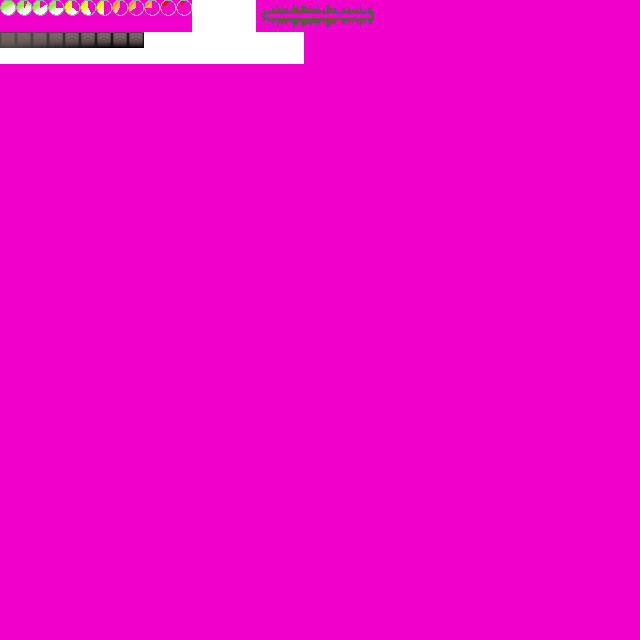
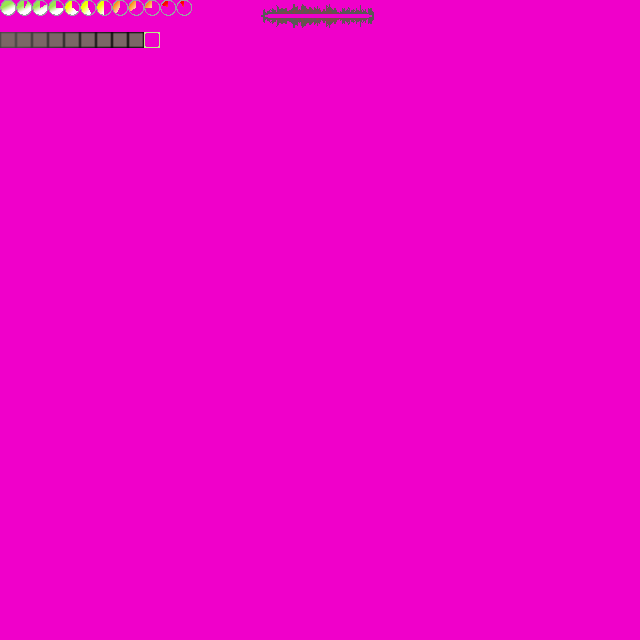
Adding items, fixing bug that player couldnt change items after another died and refactoring collidableObjects code

Changed region(s): [[0.0, 0.0, 0.5, 0.125]]

diff --git a/src/thequizmaster/gamestates/MainGame.java b/src/thequizmaster/gamestates/MainGame.java
@@ -60,20 +60,28 @@ public class MainGame extends GameState {
 	public void checkCollidables() {
 		for(int i = 0; i < level.collidableObjects.size(); i++) {
 			if(Hitbox.isColliding(level.collidableObjects.get(i).hitbox, player.hitbox)) {
-				level.collidableObjects.get(i).hasCollided();
-				removePlayerControl();
-				level.gameObjects.remove(i);
-				level.collidableObjects.remove(i);
-				quiz = new WireTrap(questionHandler.getQuestion(3), key, player);
+				level.collidableObjects.get(i).hasCollided(this);
 			}
 		}
 	}
+
+	public void removeGameObject(GameObject object){
+		level.gameObjects.remove(object);
+	}
+
+	public void removeCollidableObject(GameObject object){
+		level.collidableObjects.remove(object);
+	}
 	
-	private void removePlayerControl() {
+	public void removePlayerControl() {
 		isQuizActive = true;
 		player.canMove = false;
 	}
-	
+
+	public void createWireTrapQuiz(){
+		quiz = new WireTrap(questionHandler.getQuestion(3), key, player);
+	}
+
 	private void givePlayerControl() {
 		isQuizActive = false;
 		player.canMove = true;
@@ -174,6 +182,7 @@ public class MainGame extends GameState {
 	
 	public void replaceCurrentPlayer() {
 		player = people.get(0);
+		player.currentPlayer = true;
 		people.remove(player);
 	}
 

diff --git a/src/thequizmaster/objects/traps/TripWire.java b/src/thequizmaster/objects/traps/TripWire.java
@@ -2,11 +2,13 @@ package thequizmaster.objects.traps;
 
 import javax.sound.sampled.FloatControl;
 
+import thequizmaster.gamestates.MainGame;
 import thequizmaster.graphics.Screen;
 import thequizmaster.graphics.Sprite;
 import thequizmaster.objects.Audio;
 import thequizmaster.objects.CollidableObject;
 import thequizmaster.objects.Hitbox;
+import thequizmaster.quizmode.WireTrap;
 
 public class TripWire extends CollidableObject {
 	
@@ -49,8 +51,12 @@ public class TripWire extends CollidableObject {
 		return false;
 	}
 	
-	public void hasCollided() {
+	public void hasCollided(MainGame mainGame) {
 		tripwireSound.play();
+		mainGame.removePlayerControl();
+		mainGame.removeGameObject(this);
+		mainGame.removeCollidableObject(this);
+		mainGame.createWireTrapQuiz();
 	}
 	
 	

diff --git a/src/thequizmaster/Game.java b/src/thequizmaster/Game.java
@@ -175,7 +175,7 @@ public class Game extends Canvas implements Runnable{
 	public void printStats(Graphics g) {
 		g.drawString("X: " + gameState.getPlayer().x + ", Y: " + gameState.getPlayer().y, 0, 20);
 		g.drawString("XTILE: " + gameState.getPlayer().x / Constants.DEFAULT_SPRITE_SIZE + ", YTILE: " + gameState.getPlayer().y / Constants.DEFAULT_SPRITE_SIZE, 200, 20);
-		g.drawString("Poison Rate: " + gameState.getPlayer().poisonRate + ", Poison Level: " + gameState.getPlayer().poisonLevel, 0, 40);
+		g.drawString("Poison Rate: " + gameState.getPlayer().poisonRate + ", Poison Level: " + gameState.getPlayer().poisonLevel + ", Selection: " + gameState.getPlayer().playerSelection, 0, 40);
 	}
 
 	public static void main(String[] args) {

diff --git a/src/thequizmaster/objects/items/Item.java b/src/thequizmaster/objects/items/Item.java
@@ -1,0 +1,27 @@
+package thequizmaster.objects.items;
+
+import thequizmaster.graphics.Sprite;
+import thequizmaster.objects.CollidableObject;
+import thequizmaster.objects.Hitbox;
+
+public class Item extends CollidableObject {
+
+    public String name;
+    public Sprite sprite;
+    private Hitbox hitbox;
+    private int x;
+    private int y;
+
+    public Item(String name, Sprite sprite, Hitbox hitbox, int x, int y){
+        this.name = name;
+        this.sprite = sprite;
+        this.hitbox = hitbox;
+        this.x = x;
+        this.y = y;
+    }
+
+    public void use(){
+
+    }
+
+}

diff --git a/src/thequizmaster/objects/CollidableObject.java b/src/thequizmaster/objects/CollidableObject.java
@@ -1,5 +1,7 @@
 package thequizmaster.objects;
 
+import thequizmaster.gamestates.MainGame;
+
 public class CollidableObject extends GameObject {
 
 	public Hitbox hitbox;
@@ -8,7 +10,7 @@ public class CollidableObject extends GameObject {
 		return false;
 	}
 	
-	public void hasCollided() {
+	public void hasCollided(MainGame game) {
 		
 	}
 	

diff --git a/src/thequizmaster/objects/items/CureSyringeSmall.java b/src/thequizmaster/objects/items/CureSyringeSmall.java
@@ -1,0 +1,13 @@
+package thequizmaster.objects.items;
+
+import thequizmaster.graphics.Sprite;
+import thequizmaster.objects.Hitbox;
+
+public class CureSyringeSmall extends Item {
+
+    public CureSyringeSmall(String name, Sprite sprite, Hitbox hitbox, int x, int y){
+        super(name, sprite, hitbox, x, y);
+    }
+
+
+}

diff --git a/src/thequizmaster/quizmode/QuizMode.java b/src/thequizmaster/quizmode/QuizMode.java
@@ -53,7 +53,6 @@ public class QuizMode {
 				answeredCorrectly = isCorrectAnswer();
 			}	
 		}
-
 	}
 	
 	public void endGame() {
